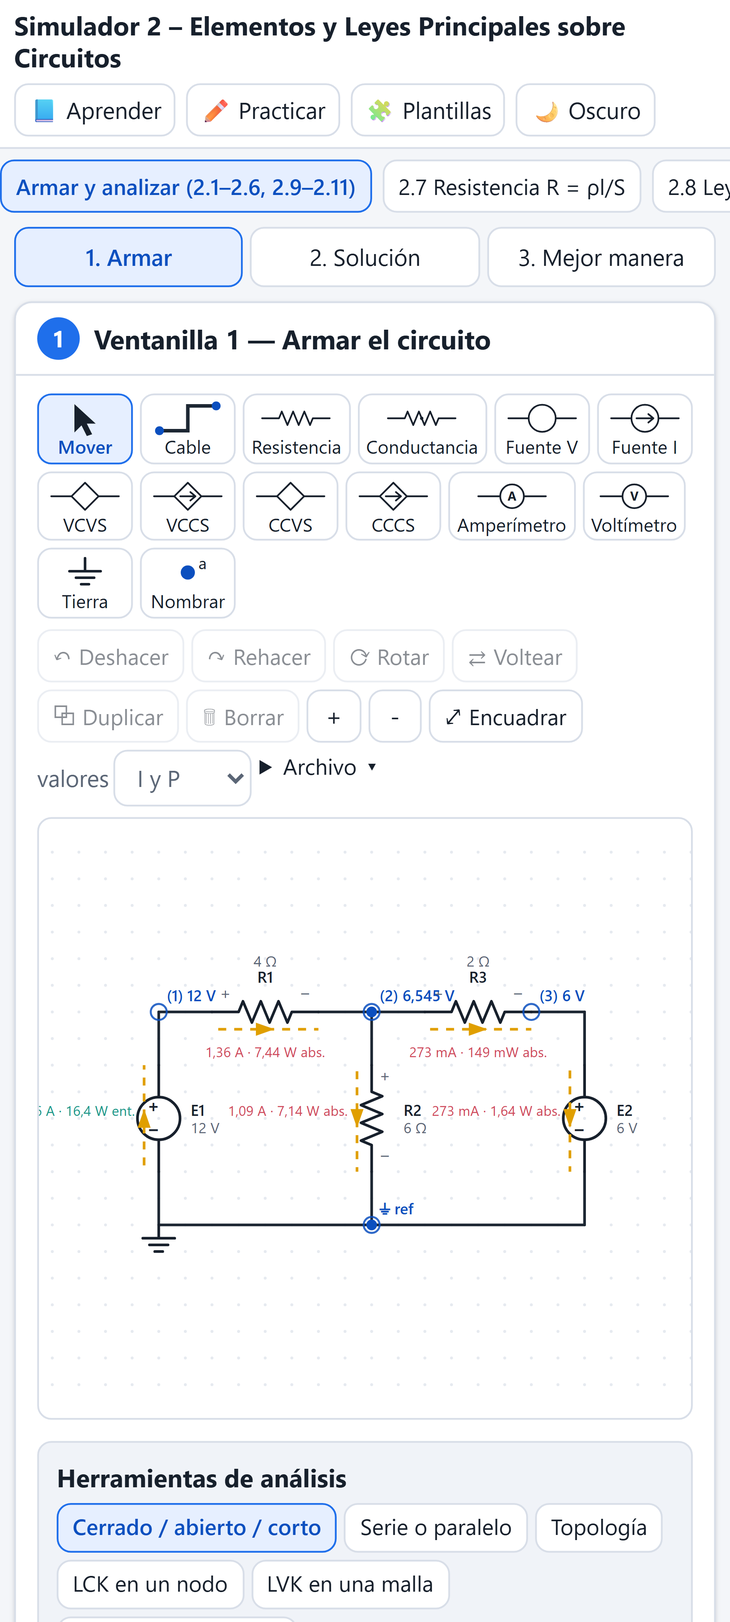
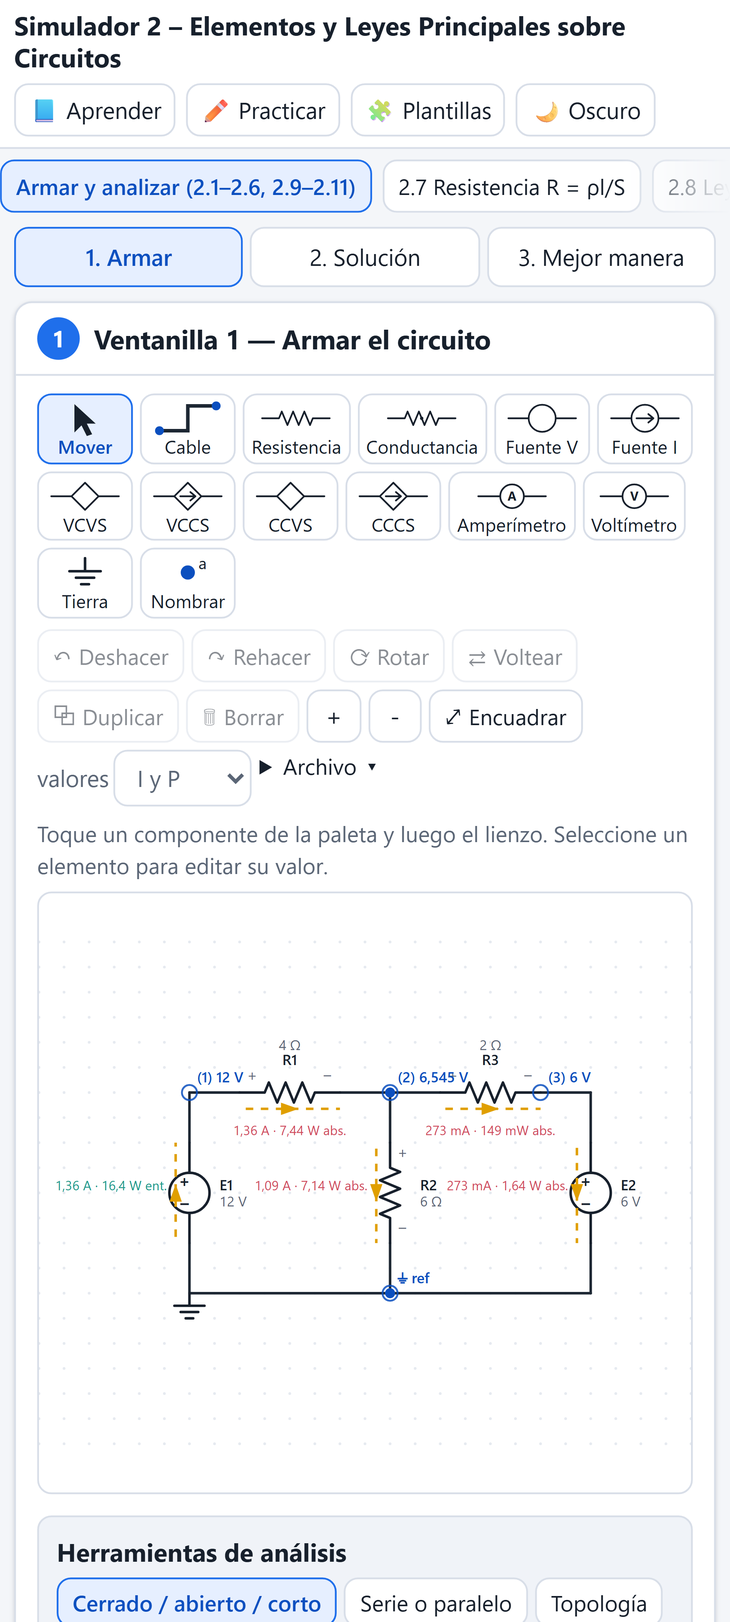
fix: correcciones de la revisión (validador, editor, LaTeX, nombres de nodos, gráficas)

diff --git a/src/core/solutions/dc.ts b/src/core/solutions/dc.ts
@@ -46,7 +46,7 @@ export function describeElement(e: NetElement, net: Analysis['net']): string {
     case 'C':
       return `Capacitor $${e.label} = ${texQ(e.value, 'F')}$ (en DC: circuito abierto)`;
     case 'SW':
-      return `Interruptor ${e.label} (${e.swMode === 'open' ? 'abierto' : 'cerrado'} en régimen permanente)`;
+      return `Interruptor ${e.label}: ${e.swMode === 'open' ? 'cerrado' : 'abierto'} para t < t₀ y se ${e.swMode === 'open' ? 'abre' : 'cierra'} en t₀ = ${e.t0 ?? 0} s`;
     default:
       return e.label;
   }
@@ -79,7 +79,8 @@ function eqBlocks(eqs: SysEq[], order: string[], controls: string[] = []): Block
       out.push(P(e.title + (hasCtrl ? '' : '')));
       out.push(T(e.raw, `(${e.n})`));
       const { lin, factor } = integerize(e.lin);
-      out.push(T(`\\Rightarrow\\; ${texEq(lin, order)}${factor !== 1 ? `\\qquad (\\times ${factor})` : ''}${hasCtrl ? '\\qquad \\text{(sustituyendo el control)}' : ''}`));
+      const usesCtrl = hasCtrl && /\\cdot|[0-9]+[A-Za-z]_|[A-Za-z]_\{[^}]*\}/.test(e.raw) && controls.some((c) => e.raw.includes(c.split(' = ')[0]));
+      out.push(T(`\\Rightarrow\\; ${texEq(lin, order)}${factor !== 1 ? `\\qquad (\\times ${factor})` : ''}${usesCtrl ? '\\qquad \\text{(sustituyendo el control)}' : ''}`));
     }
   }
   return out;
@@ -140,7 +141,7 @@ export function dcSolution(a: Analysis, method: DCMethod, sys: SolveMethod = 'ga
     if (!m.ok) {
       dev.push(P(`⚠ ${m.error}`));
     } else {
-      dev.push(P(`Mallas (sentido horario): ${m.meshNames.map((x) => `$${x}$`).join(', ')}.${m.supermeshes.length ? ' Supermallas: ' + m.supermeshes.map((s) => `mallas ${s.meshes.join('+')} (fuente${s.sources.length > 1 ? 's' : ''} ${s.sources.join(', ')})`).join('; ') + '.' : ''}`));
+      dev.push(P(`Mallas (sentido horario): ${m.meshNames.map((x) => `$${x}$`).join(', ')}.${m.supermeshes.filter((s) => s.meshes.length > 1).length ? ' Supermallas: ' + m.supermeshes.filter((s) => s.meshes.length > 1).map((s) => `mallas ${s.meshes.join('+')} (fuente${s.sources.length > 1 ? 's' : ''} ${s.sources.join(', ')})`).join('; ') + '.' : ''}`));
       if (m.controls.length) {
         dev.push(H('Variables de control en función de las corrientes de malla'));
         for (const c of m.controls) dev.push(T(c));
@@ -248,7 +249,7 @@ export function reductionDoc(a: Analysis): StepDoc {
   const dev: Block[] = [];
   let concept = 'Reducción: se combinan resistencias en serie ($R_1 + R_2$) y en paralelo ($R_1R_2/(R_1+R_2)$) hasta obtener una sola resistencia equivalente vista por la fuente; luego se regresa paso a paso al circuito original con la ley de Ohm y los divisores de voltaje y corriente.';
   if (sources.length !== 1 || isDependent(sources[0].kind)) {
-    dev.push(P('La reducción directa sirve cuando hay UNA sola fuente independiente. Este circuito tiene ' + sources.length + ' fuentes: use nodos, mallas o superposición.'));
+    dev.push(P(sources.length === 0 ? 'No hay fuentes: solo se puede calcular la resistencia equivalente entre dos terminales (herramienta de la ventanilla 1).' : 'La reducción directa sirve cuando hay UNA sola fuente independiente. Este circuito tiene ' + sources.length + ' fuentes: use nodos, mallas o superposición.'));
     return { title: 'Reducción serie‑paralelo', concept, identification: identification(a), laws: [], development: dev, results: a.dc ? resultsBlocks(a) : [], verification: a.dc ? verification(a, []) : [], tip: 'Con varias fuentes, superposición + reducción es otra opción.' };
   }
   const s = sources[0];
@@ -264,6 +265,7 @@ export function reductionDoc(a: Analysis): StepDoc {
     if (s.kind === 'V') dev.push(T(`I_{total} = \\frac{E}{R_{eq}} = \\frac{${texNum(s.value, 5)}}{${texNum(red.Req, 5)}} = ${texQ(-x.i, 'A')}`));
     else dev.push(T(`V = I_s\\,R_{eq} = ${texNum(s.value, 5)}\\cdot ${texNum(red.Req, 5)} = ${texQ(-x.v, 'V')}`));
     dev.push(H('Regreso al circuito original'));
+    dev.push(P('Se recorren las etapas al revés: en cada serie la corriente es la misma y el voltaje se reparte (divisor de voltaje); en cada paralelo el voltaje es el mismo y la corriente se reparte (divisor de corriente). Así se obtiene el voltaje de cada resistencia y con Ohm su corriente:'));
     for (const e of net.elements.filter((x) => x.kind === 'R')) {
       const r = a.dc!.el.get(e.id)!;
       dev.push(T(`I_{${e.label}} = \\frac{V_{${e.label}}}{R} = \\frac{${texNum(r.v, 5)}}{${texNum(e.value, 5)}} = ${texQ(r.i, 'A')}`));
@@ -296,8 +298,9 @@ export function countEquations(a: Analysis): MethodCount {
   const vl = net.elements.filter((e) => isVoltageSourceLike(e.kind) || e.kind === 'AM').length;
   const il = net.elements.filter((e) => isCurrentSourceLike(e.kind)).length;
   const nodos = Math.max(0, a.topo.nodes - 1 - vl);
-  const mallas = Math.max(0, a.topo.meshes.length - il);
-  const ramas = a.topo.branches.length + il;
+  const nonPlanar = a.topo.crossings.length > 0 || a.topo.nonPlanarByEuler || a.topo.meshes.length !== a.topo.independentLoops;
+  const mallas = nonPlanar ? Infinity : Math.max(0, a.topo.meshes.length - il);
+  const ramas = a.topo.branches.length;
   const sources = net.elements.filter((e) => isVoltageSourceLike(e.kind) || isCurrentSourceLike(e.kind));
   let reducible = false;
   if (sources.length === 1 && !isDependent(sources[0].kind)) {
@@ -331,7 +334,7 @@ export function betterWayDC(a: Analysis): BetterDoc {
   return {
     method,
     why,
-    savings: `Corrientes de rama: ${c.ramas} incógnitas · Nodos: ${c.nodos} · Mallas: ${c.mallas}${c.reducible ? ' · Reducción: 0 sistemas' : ''}. El método recomendado ahorra ${Math.max(0, c.ramas - best)} ecuación(es) respecto al método de ramas.`,
+    savings: `Corrientes de rama: ${c.ramas} incógnitas · Nodos: ${c.nodos} · Mallas: ${isFinite(c.mallas) ? c.mallas : 'no aplica (no planar)'}${c.reducible ? ' · Reducción: 0 sistemas' : ''}. El método recomendado ahorra ${Math.max(0, c.ramas - best)} ecuación(es) respecto al método de ramas.`,
     formulas: [
       { tex: 'I = \\frac{V_i - V_j}{R}', meaning: 'Corriente que SALE del nodo i hacia el nodo j por una resistencia (ley de Ohm).' },
       { tex: 'V_{(+)} - V_{(-)} = E', meaning: 'Ecuación del supernodo: la fuente fija la diferencia entre sus dos nodos.' },

diff --git a/src/core/engine/methods/reduce.ts b/src/core/engine/methods/reduce.ts
@@ -71,14 +71,14 @@ export function reduceNetwork(edgesIn: REdge[], s: number, t: number): ReduceRes
     const sc = edges.find((e) => e.a === e.b);
     if (sc) {
       edges = edges.filter((e) => e !== sc);
-      steps.push({ kind: 'corto', inputs: [sc.name], outputs: [], tex: `${sc.name}\\ \\text{está en cortocircuito (sus dos extremos en el mismo nodo): no aporta}`, text: `${sc.name} está cortocircuitada y no aporta nada.`, edges: snapshot() });
+      steps.push({ kind: 'corto', inputs: [sc.name], outputs: [], tex: `${sc.name}\\ \\text{está en cortocircuito (sus dos extremos en el mismo nodo): no aporta}`, text: `$${sc.name}$ está cortocircuitada y no aporta nada.`, edges: snapshot() });
       continue;
     }
     // 1) ramas colgantes: nodo de grado 1 que no es terminal
     const dang = edges.find((e) => (degree(e.a) === 1 && e.a !== s && e.a !== t) || (degree(e.b) === 1 && e.b !== s && e.b !== t));
     if (dang) {
       edges = edges.filter((e) => e !== dang);
-      steps.push({ kind: 'colgante', inputs: [dang.name], outputs: [], tex: `${dang.name}\\ \\text{tiene un extremo libre: no circula corriente, se elimina}`, text: `${dang.name} queda con un extremo libre: no conduce corriente.`, edges: snapshot() });
+      steps.push({ kind: 'colgante', inputs: [dang.name], outputs: [], tex: `${dang.name}\\ \\text{tiene un extremo libre: no circula corriente, se elimina}`, text: `$${dang.name}$ queda con un extremo libre: no conduce corriente.`, edges: snapshot() });
       continue;
     }
     if (edges.length === 1 && ((edges[0].a === s && edges[0].b === t) || (edges[0].a === t && edges[0].b === s))) break;
@@ -95,7 +95,7 @@ export function reduceNetwork(edgesIn: REdge[], s: number, t: number): ReduceRes
         if (grp.length === 2) tex = `${nm} = \\dfrac{${grp[0].name}\\cdot ${grp[1].name}}{${grp[0].name} + ${grp[1].name}} = \\dfrac{${fmt(grp[0].R)}\\cdot ${fmt(grp[1].R)}}{${fmt(grp[0].R)} + ${fmt(grp[1].R)}} = ${fmt(R)}\\ [\\Omega]`;
         else if (grp.length === 3) tex = `${nm} = \\dfrac{${grp.map((g) => g.name).join('\\,')}}{${grp[0].name}${grp[1].name} + ${grp[0].name}${grp[2].name} + ${grp[1].name}${grp[2].name}} = ${fmt(R)}\\ [\\Omega]`;
         else tex = `\\dfrac{1}{${nm}} = ${grp.map((g) => `\\dfrac{1}{${fmt(g.R)}}`).join(' + ')} \\Rightarrow ${nm} = ${fmt(R)}\\ [\\Omega]`;
-        steps.push({ kind: 'paralelo', inputs: grp.map((g) => g.name), outputs: [nm], tex, text: `${grp.map((g) => g.name).join(' ∥ ')} están en paralelo (mismos dos nodos).`, edges: snapshot() });
+        steps.push({ kind: 'paralelo', inputs: grp.map((g) => g.name), outputs: [nm], tex, text: `${grp.map((g) => `$${g.name}$`).join(' ∥ ')} están en paralelo (mismos dos nodos).`, edges: snapshot() });
         done = true;
       }
     }
@@ -110,7 +110,7 @@ export function reduceNetwork(edgesIn: REdge[], s: number, t: number): ReduceRes
       const R = pair[0].R + pair[1].R;
       const nm = newName();
       edges = edges.filter((e) => !pair.includes(e)).concat({ id: nm, name: nm, R, a: o1, b: o2, from: pair.flatMap((g) => g.from) });
-      steps.push({ kind: 'serie', inputs: pair.map((g) => g.name), outputs: [nm], tex: `${nm} = ${pair[0].name} + ${pair[1].name} = ${fmt(pair[0].R)} + ${fmt(pair[1].R)} = ${fmt(R)}\\ [\\Omega]`, text: `${pair[0].name} y ${pair[1].name} están en serie (el nodo entre ellos no tiene otra conexión).`, edges: snapshot() });
+      steps.push({ kind: 'serie', inputs: pair.map((g) => g.name), outputs: [nm], tex: `${nm} = ${pair[0].name} + ${pair[1].name} = ${fmt(pair[0].R)} + ${fmt(pair[1].R)} = ${fmt(R)}\\ [\\Omega]`, text: `$${pair[0].name}$ y $${pair[1].name}$ están en serie (el nodo entre ellos no tiene otra conexión).`, edges: snapshot() });
       done = true;
       break;
     }
@@ -126,7 +126,7 @@ export function reduceNetwork(edgesIn: REdge[], s: number, t: number): ReduceRes
     const ny = `R_{y${eqCount + 1}}`;
     const nz = `R_{z${eqCount + 1}}`;
     eqCount++;
-    if (!proposal) proposal = `Transformar el triángulo formado por ${e12.name}, ${e13.name} y ${e23.name} en una estrella.`;
+    if (!proposal) proposal = `Transformar el triángulo formado por ${[e12, e13, e23].map((x) => x.name.replace(/[{}_\\]/g, '')).join(', ')} en una estrella.`;
     edges = edges.filter((e) => e !== e12 && e !== e13 && e !== e23).concat(
       { id: nx, name: nx, R: Rx, a: n1, b: c, from: [...e12.from, ...e13.from] },
       { id: ny, name: ny, R: Ry, a: n2, b: c, from: [...e12.from, ...e23.from] },
@@ -138,7 +138,7 @@ export function reduceNetwork(edgesIn: REdge[], s: number, t: number): ReduceRes
       inputs: [e12.name, e13.name, e23.name],
       outputs: [nx, ny, nz],
       tex: `${nx} = \\dfrac{${e12.name}\\,${e13.name}}{\\Sigma} = \\dfrac{${fmt(e12.R)}\\cdot ${fmt(e13.R)}}{${fmt(S)}} = ${fmt(Rx)};\\quad ${ny} = \\dfrac{${e12.name}\\,${e23.name}}{\\Sigma} = ${fmt(Ry)};\\quad ${nz} = \\dfrac{${e13.name}\\,${e23.name}}{\\Sigma} = ${fmt(Rz)}\\ [\\Omega]`,
-      text: `La red no se puede reducir solo con serie y paralelo: se transforma el triángulo ${e12.name}–${e13.name}–${e23.name} en estrella (Σ = ${fmt(S).replace('{,}', ',')} Ω).`,
+      text: `La red no se puede reducir solo con serie y paralelo: se transforma el triángulo $${e12.name}$–$${e13.name}$–$${e23.name}$ en estrella ($\\Sigma = ${fmt(S)}$ Ω).`,
       edges: snapshot(),
       newNode: c,
     });

diff --git a/src/core/ui/PiecesEditor.tsx b/src/core/ui/PiecesEditor.tsx
@@ -1,0 +1,73 @@
+import React from 'react';
+import { Piece } from '../engine/expr';
+import { parseSI } from '../engine/units';
+
+export interface PieceIn {
+  from: string;
+  to: string;
+  expr: string;
+}
+
+export function parseBound(s: string): number {
+  const x = s.trim().replace('−', '-').toLowerCase();
+  if (['-inf', '-∞', '-infinito'].includes(x)) return -Infinity;
+  if (['inf', '∞', '+inf', '+∞', 'infinito'].includes(x)) return Infinity;
+  const r = parseSI(x, 's');
+  return r.ok ? r.value! : NaN;
+}
+
+export function toPieces(p: PieceIn[]): { pieces: Piece[]; error?: string } {
+  const out: Piece[] = [];
+  for (const q of p) {
+    const from = parseBound(q.from);
+    const to = parseBound(q.to);
+    if (isNaN(from) || isNaN(to)) return { pieces: [], error: `Intervalo inválido «${q.from} ≤ t < ${q.to}». Use números en segundos (admite prefijos: 2m = 2 ms) o -inf / inf.` };
+    out.push({ from, to, expr: q.expr });
+  }
+  return { pieces: out };
+}
+
+const QUICK: { label: string; expr: string }[] = [
+  { label: 'constante', expr: '5' },
+  { label: 'rampa', expr: '2*t' },
+  { label: 'exponencial', expr: '10*exp(-t/0.5)' },
+  { label: 'senoidal', expr: '5*sin(2*pi*50*t)' },
+];
+
+/** Editor de funciones del tiempo por tramos */
+export function PiecesEditor({ pieces, onChange, varName, quick = true }: { pieces: PieceIn[]; onChange: (p: PieceIn[]) => void; varName: string; quick?: boolean }) {
+  return (
+    <div className="col">
+      {pieces.map((p, k) => (
+        <div key={k} className="row">
+          <input value={p.from} onChange={(e) => onChange(pieces.map((q, j) => (j === k ? { ...q, from: e.target.value } : q)))} style={{ width: 64 }} aria-label={`desde ${k + 1}`} />
+          <span>≤ t &lt;</span>
+          <input value={p.to} onChange={(e) => onChange(pieces.map((q, j) => (j === k ? { ...q, to: e.target.value } : q)))} style={{ width: 64 }} aria-label={`hasta ${k + 1}`} />
+          <span>
+            : {varName}(t) =
+          </span>
+          <input value={p.expr} onChange={(e) => onChange(pieces.map((q, j) => (j === k ? { ...q, expr: e.target.value } : q)))} style={{ flex: 1, minWidth: 140 }} aria-label={`expresión ${k + 1}`} />
+          {quick && (
+            <select value="" onChange={(e) => e.target.value && onChange(pieces.map((q, j) => (j === k ? { ...q, expr: e.target.value } : q)))} aria-label="forma rápida">
+              <option value="">forma…</option>
+              {QUICK.map((qq) => (
+                <option key={qq.label} value={qq.expr}>
+                  {qq.label}
+                </option>
+              ))}
+            </select>
+          )}
+          {pieces.length > 1 && (
+            <button onClick={() => onChange(pieces.filter((_, j) => j !== k))} aria-label="quitar tramo">
+              ✕
+            </button>
+          )}
+        </div>
+      ))}
+      <div className="row">
+        <button onClick={() => { const last = pieces[pieces.length - 1]; onChange([...pieces, { from: last?.to ?? '0', to: 'inf', expr: '0' }]); }}>+ tramo</button>
+        <span className="hint">Use t en segundos. Ejemplos: 2*t · 10*exp(-2*t) · 5*sin(100*pi*t) · 4 - 2*(t-5). Use -inf / inf para t &lt; 0 o t &gt; 0.</span>
+      </div>
+    </div>
+  );
+}

diff --git a/src/core/ui/CircuitEditor.tsx b/src/core/ui/CircuitEditor.tsx
@@ -64,6 +64,11 @@ export function CircuitEditor(props: EditorProps) {
   const drag = useRef<{ mode: 'move' | 'pan'; start: Pt; orig: CElement | null; view?: typeof view; moved: boolean; pointerId: number } | null>(null);
 
   useEffect(() => setPicked([]), [props.pick]);
+  // encuadrar cuando se carga un circuito nuevo (plantilla, archivo o enlace)
+  useEffect(() => {
+    if (doc.loadCount) setView(fitView(doc.circuit));
+    // eslint-disable-next-line react-hooks/exhaustive-deps
+  }, [doc.loadCount]);
   useEffect(() => {
     props.onSelect?.(sel?.el ? { element: sel.el } : sel?.node !== undefined ? { node: sel.node } : null);
     // eslint-disable-next-line react-hooks/exhaustive-deps
@@ -461,8 +466,8 @@ export function CircuitEditor(props: EditorProps) {
         <input ref={fileRef} type="file" accept=".json,application/json" style={{ display: 'none' }} onChange={(e) => e.target.files?.[0] && loadJSON(e.target.files[0])} />
         {props.toolbarExtra}
       </div>
-      {(props.pick || tool.t !== 'select') && (
-        <div className="hint no-print" role="status">
+      {(
+        <div className="hint no-print" role="status" style={{ minHeight: 36 }}>
           {props.pick
             ? `${props.pick.prompt} (${picked.length}/${props.pick.count})`
             : tool.t === 'wire'
@@ -471,7 +476,9 @@ export function CircuitEditor(props: EditorProps) {
                 : 'Toque el punto de inicio del cable (un terminal o un punto de la grilla).'
               : tool.t === 'place'
                 ? `Toque en el lienzo para colocar: ${KIND_INFO[tool.kind].name}.`
-                : 'Toque un nodo para ponerle nombre (a, b, c…).'}
+                : tool.t === 'name'
+                  ? 'Toque un nodo para ponerle nombre (a, b, c…).'
+                  : 'Toque un componente de la paleta y luego el lienzo. Seleccione un elemento para editar su valor.'}
         </div>
       )}
       <div
@@ -558,7 +565,7 @@ export function CircuitEditor(props: EditorProps) {
                   }}
                   style={{ cursor: 'pointer' }}
                 >
-                  <circle cx={p.x * U} cy={p.y * U} r={props.pick?.kind === 'node' ? 9 : 6} fill={isErr ? pal.err : isHi ? pal.sel : 'transparent'} stroke={isErr ? pal.err : isHi ? pal.sel : pal.node} strokeWidth={1.5} opacity={0.85} />
+                  <circle cx={p.x * U} cy={p.y * U} r={props.pick?.kind === 'node' ? 15 : 6} fill={isErr ? pal.err : isHi ? pal.sel : 'transparent'} stroke={isErr ? pal.err : isHi ? pal.sel : pal.node} strokeWidth={1.5} opacity={0.85} />
                   <text x={p.x * U + 6} y={p.y * U - 8} fontSize={11.5} fill={isErr ? pal.err : pal.node} fontWeight={600}>
                     {n === 0 ? '⏚ ref' : `(${name})`}
                     {showVals && v !== undefined && n !== 0 ? ` ${fmtEng(v, 'V', 4)}` : ''}
@@ -616,7 +623,7 @@ export function fitView(c: Circuit) {
     ys.push(w.a.y, w.b.y);
   }
   if (!xs.length) return { x: -2 * U, y: -6 * U, w: 30 * U, h: 18 * U };
-  const minX = Math.min(...xs) - 4.5;
+  const minX = Math.min(...xs) - 6;
   const maxX = Math.max(...xs) + 4;
   const minY = Math.min(...ys) - 3;
   const maxY = Math.max(...ys) + 3;

diff --git a/src/core/engine/validate.ts b/src/core/engine/validate.ts
@@ -91,7 +91,8 @@ export function validate(c: Circuit | null, net: Netlist, opt: ValidateOptions =
     }
   }
   // camino cerrado: debe existir al menos un lazo con elementos que conducen
-  const conducts = (e: NetElement) => e.kind !== 'VM' && !(e.kind === 'SW' && !switchStateAfter(e) && mode === 'dc') && !(e.kind === 'C' && mode === 'dc');
+  // el concepto de circuito cerrado es geométrico: un lazo que pasa por un capacitor existe (su problema en DC lo informan otros errores)
+  const conducts = (e: NetElement) => e.kind !== 'VM' && !(e.kind === 'SW' && !switchStateAfter(e) && mode === 'dc');
   {
     const p2 = Array.from({ length: N }, (_, i) => i);
     const f2 = (x: number): number => (p2[x] === x ? x : (p2[x] = f2(p2[x])));
@@ -223,7 +224,7 @@ export function validate(c: Circuit | null, net: Netlist, opt: ValidateOptions =
         const x = r.el.get(e.id)!;
         if ((e.kind === 'R' || e.kind === 'G') && Math.abs(x.p) > 1e4)
           out.push(mk('exagerado', 'warning', `${e.label} disiparía ${fmtEng(x.p, 'W')} (corriente ${fmtEng(Math.abs(x.i), 'A')}).`, 'Es mucha potencia para una resistencia de circuito; las comunes son de ¼ a 5 W.', 'Una resistencia real se quemaría salvo que sea de potencia (calefactor, freno).', 'Si es un ejercicio de papel, ignore el aviso; si es un circuito real, aumente R o baje la fuente.', [e.id]));
-        if ((e.kind === 'R' || e.kind === 'G') && Math.abs(x.i) < 1e-15 && e.n1 !== e.n2 && Math.abs(r.V[e.n1]) + Math.abs(r.V[e.n2]) > 0)
+        if (mode === 'dc' && (e.kind === 'R' || e.kind === 'G') && Math.abs(x.i) < 1e-15 && e.n1 !== e.n2 && Math.abs(r.V[e.n1]) + Math.abs(r.V[e.n2]) > 0)
           out.push(mk('sincorriente', 'warning', `Por ${e.label} no circula corriente.`, 'Sus dos terminales están al mismo voltaje (puente balanceado o rama abierta).', 'Ese elemento no cumple ninguna función en este circuito.', 'Puede retirarlo sin cambiar el resto del circuito.', [e.id]));
       }
     }

diff --git a/src/core/ui/useCircuitDoc.ts b/src/core/ui/useCircuitDoc.ts
@@ -32,6 +32,8 @@ export interface CircuitDoc {
   canRedo: boolean;
   load: (c: Circuit) => void;
   shareUrl: () => string;
+  /** se incrementa cada vez que se carga un circuito completo */
+  loadCount: number;
 }
 
 export function useCircuitDoc(key: string, initial: Circuit): CircuitDoc {
@@ -98,7 +100,14 @@ export function useCircuitDoc(key: string, initial: Circuit): CircuitDoc {
     });
     force((x) => x + 1);
   }, []);
-  const load = useCallback((c: Circuit) => set(JSON.parse(JSON.stringify(c))), [set]);
+  const [loadCount, setLoadCount] = useState(0);
+  const load = useCallback(
+    (c: Circuit) => {
+      set(JSON.parse(JSON.stringify(c)));
+      setLoadCount((n) => n + 1);
+    },
+    [set],
+  );
   // abrir un enlace compartido en la misma pestaña (solo cambia el #)
   useEffect(() => {
     const h = () => {
@@ -110,5 +119,5 @@ export function useCircuitDoc(key: string, initial: Circuit): CircuitDoc {
     return () => window.removeEventListener('hashchange', h);
   }, [load]);
   const shareUrl = useCallback(() => `${location.origin}${location.pathname}#c=${encodeCircuit(present)}`, [present]);
-  return { circuit: present, set, preview, commit, undo, redo, canUndo: past.current.length > 0, canRedo: future.current.length > 0, load, shareUrl };
+  return { circuit: present, set, preview, commit, undo, redo, canUndo: past.current.length > 0, canRedo: future.current.length > 0, load, shareUrl, loadCount };
 }

diff --git a/src/core/engine/generate.ts b/src/core/engine/generate.ts
@@ -43,7 +43,11 @@ export function randomGridCircuit(r: Rng, o: GenOptions = {}): Circuit {
     for (let j = 0; j <= rows; j++) for (let i = 0; i < cols; i++) edges.push({ a: [i * S, j * S], b: [(i + 1) * S, j * S] });
     for (let j = 0; j < rows; j++) for (let i = 0; i <= cols; i++) edges.push({ a: [i * S, j * S], b: [i * S, (j + 1) * S] });
     const kinds: (Kind | 'W')[] = edges.map(() => 'R');
-    const order = edges.map((_, k) => k).sort(() => r() - 0.5);
+    const order = edges.map((_, k) => k);
+    for (let i = order.length - 1; i > 0; i--) {
+      const j = Math.floor(r() * (i + 1));
+      [order[i], order[j]] = [order[j], order[i]];
+    }
     let p = 0;
     for (let k = 0; k < (o.vSources ?? 1); k++) kinds[order[p++]] = 'V';
     for (let k = 0; k < (o.iSources ?? 0); k++) kinds[order[p++]] = 'I';
@@ -89,7 +93,7 @@ export function randomGridCircuit(r: Rng, o: GenOptions = {}): Circuit {
     if (an.issues.some((i) => i.severity === 'warning' && i.code !== 'sincorriente')) continue;
     // evitar valores absurdos
     const maxI = Math.max(...[...an.dc!.el.values()].map((x) => Math.abs(x.i)));
-    if (!isFinite(maxI) || maxI > 1e3 || an.topo.meshes.length !== an.topo.independentLoops) continue;
+    if (!isFinite(maxI) || maxI > 1e3 || maxI < 1e-6 || an.topo.meshes.length !== an.topo.independentLoops) continue;
     return c;
   }
   throw new Error('No se pudo generar un circuito válido');

diff --git a/src/core/engine/netlist.ts b/src/core/engine/netlist.ts
@@ -140,10 +140,24 @@ export function buildNetlist(c: Circuit): Netlist {
   const nodeCount = (groundRoot ? 1 : 0) + others.length;
   const nodePoints: Pt[][] = new Array(nodeCount).fill(null).map(() => []);
   for (const [r, g] of groups) if (index.has(r)) nodePoints[index.get(r)!] = g;
-  const nodeNames = new Array(nodeCount).fill('').map((_, i) => (i === 0 ? '0' : String(i)));
+  const nodeNames = new Array(nodeCount).fill('');
+  nodeNames[0] = '0';
+  const userNamed = new Set<number>();
   for (const nn of c.nodeNames ?? []) {
     const r = uf.find(key(nn));
-    if (index.has(r) && nn.name.trim()) nodeNames[index.get(r)!] = nn.name.trim();
+    if (index.has(r) && nn.name.trim()) {
+      nodeNames[index.get(r)!] = nn.name.trim();
+      userNamed.add(index.get(r)!);
+    }
+  }
+  const used = new Set(nodeNames.filter(Boolean));
+  let auto = 1;
+  for (let i = 1; i < nodeCount; i++) {
+    if (userNamed.has(i)) continue;
+    while (used.has(String(auto))) auto++;
+    nodeNames[i] = String(auto);
+    used.add(String(auto));
+    auto++;
   }
 
   const elements: NetElement[] = [];

diff --git a/src/core/ui/basic.tsx b/src/core/ui/basic.tsx
@@ -218,7 +218,9 @@ export interface Series {
   width?: number;
   stepped?: boolean;
 }
-export function Plot({ series, xLabel, yLabel, height = 260, vlines = [], points = [], onHover }: { series: Series[]; xLabel?: string; yLabel?: string; height?: number; vlines?: { x: number; label: string; color?: string }[]; points?: { x: number; y: number; label?: string; color?: string }[]; onHover?: (x: number | null) => void }) {
+const NO_VLINES: { x: number; label: string; color?: string }[] = [];
+const NO_POINTS: { x: number; y: number; label?: string; color?: string }[] = [];
+export function Plot({ series, xLabel, yLabel, height = 260, vlines = NO_VLINES, points = NO_POINTS, onHover }: { series: Series[]; xLabel?: string; yLabel?: string; height?: number; vlines?: { x: number; label: string; color?: string }[]; points?: { x: number; y: number; label?: string; color?: string }[]; onHover?: (x: number | null) => void }) {
   const ref = useRef<HTMLCanvasElement>(null);
   const chart = useRef<Chart | null>(null);
   const pal = usePalette();

diff --git a/src/core/engine/methods/thevenin.ts b/src/core/engine/methods/thevenin.ts
@@ -32,6 +32,8 @@ export function thevenin(net: Netlist, p: number, q: number, removeIds: string[]
   const base: TheveninResult = { ok: false, case: kase, Eth: 0, Rth: NaN, Icc: NaN, In: NaN, rMethod: 'apagar fuentes', openCircuit: null };
   if (p === q) return { ...base, error: 'Los dos terminales elegidos son el mismo nodo.' };
   // Voltaje de circuito abierto: se agrega una fuente de prueba de 0 A entre p y q (no altera nada) para asegurar el nodo
+  const ctrlRemoved = net.elements.find((e) => e.ctrlRef && remove.has(e.ctrlRef));
+  if (ctrlRemoved) return { ...base, error: `La carga elegida es la variable de control de ${ctrlRemoved.label}: si se retira, la fuente dependiente pierde su control. Elija los terminales a y b sin retirar ese elemento, o tome como carga otro elemento.` };
   const oc = solveMNA(net, { remove });
   if (!oc.ok) return { ...base, error: 'No se puede resolver el circuito con los terminales abiertos (revise que la red no quede flotante al retirar la carga).' };
   const Eth = oc.V[p] - oc.V[q];

diff --git a/src/core/ui/Practice.tsx b/src/core/ui/Practice.tsx
@@ -40,7 +40,12 @@ export function PracticeView({ gens, storageKey }: { gens: ExerciseGen[]; storag
   const gen = gens.find((g) => g.id === gid) ?? gens[0];
   const ex = useMemo(() => {
     try {
-      return gen.gen(mulberry32(seed), level);
+      const rng = mulberry32(seed);
+      for (let k = 0; k < 30; k++) {
+        const ex = gen.gen(rng, level);
+        if (ex.answers.every((a) => isFinite(a.value))) return ex;
+      }
+      return gen.gen(rng, level);
     } catch (e) {
       return { prompt: 'No se pudo generar el ejercicio, pruebe con «Nuevo ejercicio».', answers: [], hints: [], solution: [] } as Exercise;
     }

diff --git a/src/core/ui/DCMode.tsx b/src/core/ui/DCMode.tsx
@@ -107,14 +107,14 @@ export function DCMode(p: DCModeProps) {
             </select>
           </label>
         )}
-        <label className="row">
+        {curMethod !== 'reduccion' && <label className="row">
           Resolver el sistema por:
           <select value={sys} onChange={(e) => setSys(e.target.value as SolveMethod)}>
             <option value="gauss">Gauss</option>
             <option value="cramer">Cramer (determinantes)</option>
             <option value="sustitucion">Sustitución</option>
           </select>
-        </label>
+        </label>}
       </div>
       {sol && <StepsView doc={sol} />}
     </div>
